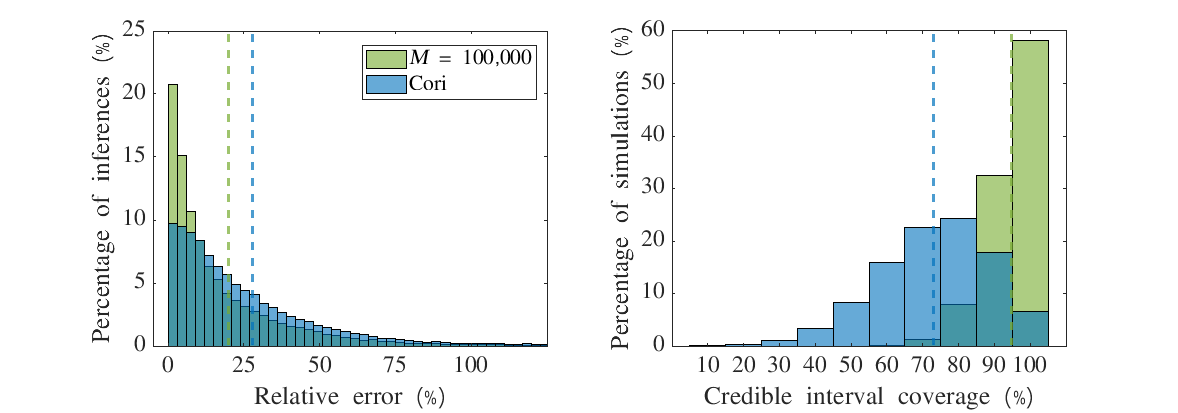
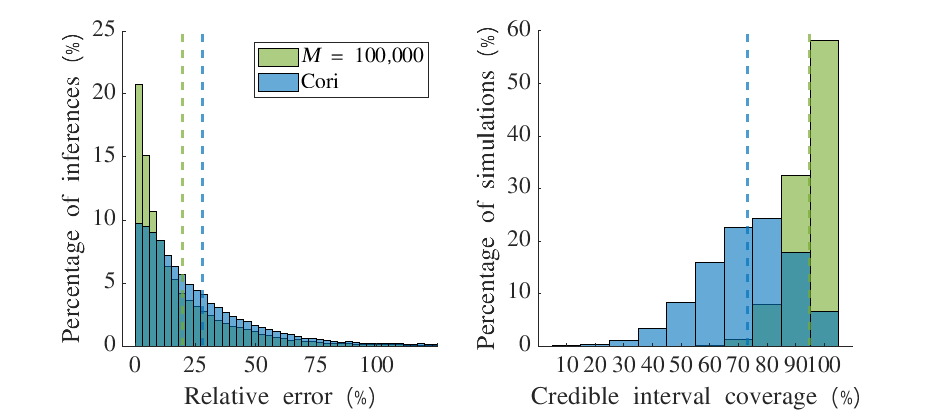
pre meeting

diff --git a/MATLAB/plotRWDEbola.m b/MATLAB/plotRWDEbola.m
@@ -20,7 +20,7 @@ set(groot, 'defaultLegendInterpreter','tex');
 set(0, 'DefaultTextInterpreter', 'tex')
 
 load('../MATs/realWorldInferenceEbolaAllRho.mat')
-
+load('../MATs/realWorldNovelInferenceEbolaSingleRho04.mat')
 
 meanAndCredibleAllRhoMatrix = zeros(max(realWorldInferenceEbolaRho1.week), 3, 9); % 3D matrix with 1st dim being time, 2nd dim being means, lower percentiles and upper percentiles, and 3rd dim being rho.
 
@@ -55,24 +55,53 @@ meanAndCredibleAllRhoMatrix(:, 3, 8) = realWorldInferenceEbolaRho8.upperRt;
 meanAndCredibleAllRhoMatrix(:, 3, 9) = realWorldInferenceEbolaRho9.upperRt;
 
 figure
-subplot(1, 2, 1)
+subplot(2, 2, 1)
 
-bar(realWorldInferenceEbolaRho1.trueWeeklyI)
+bh = bar(1:102, [realWorldNovelInferenceEbolaSingleRho04.reportedWeeklyI, realWorldInferenceEbolaRho1.trueWeeklyI - realWorldNovelInferenceEbolaSingleRho04.reportedWeeklyI], 'stacked');
 xlabel('Time (\itt \rmweeks)')
 ylabel('Assumed true incidence')
+set(bh, 'FaceColor', 'Flat')
+bh(2).CData = [0.5 0.5 0.5];
 
+legend('Actual reported incidence', 'Simulated hidden incidence')
+box off
+
+subplot(2, 2, 2)
+
+bh = bar(1:102, [realWorldInferenceEbolaRho1.reportedWeeklyI, realWorldInferenceEbolaRho1.trueWeeklyI - realWorldInferenceEbolaRho1.reportedWeeklyI], 'stacked');
+xlabel('Time (\itt \rmweeks)')
+ylabel('Assumed true incidence')
+set(bh, 'FaceColor', 'Flat')
+bh(1).CData = [0.9290 0.6940 0.1250];
+bh(2).CData = [0.5 0.5 0.5];
+
+legend('Simulated reported incidence (\rho = 0.1)', 'Simulated hidden incidence')
+box off
+
+subplot(2, 2, 3)
+
+
+bh = bar(1:102, [realWorldInferenceEbolaRho9.reportedWeeklyI, realWorldInferenceEbolaRho9.trueWeeklyI - realWorldInferenceEbolaRho9.reportedWeeklyI], 'stacked');
+xlabel('Time (\itt \rmweeks)')
+ylabel('Assumed true incidence')
+set(bh, 'FaceColor', 'Flat')
+bh(1).CData = [0.4940 0.1840 0.5560];
+bh(2).CData = [0.5 0.5 0.5];
+legend('Simulated reported incidence (\rho = 0.9)', 'Simulated hidden incidence')
+box off
 % figure
 % plotMeanAndCredible(realWorldInferenceEbola.meanRt, [realWorldInferenceEbola.lowerRt, realWorldInferenceEbola.upperRt])
 % xlabel('Time (days)')
 % ylabel('Rt')
-subplot(1, 2, 2)
+subplot(2, 2, 4)
 p(1) = plotMeanAndCredible(meanAndCredibleAllRhoMatrix(2:end, 1, 1), [meanAndCredibleAllRhoMatrix(2:end, 2, 1), meanAndCredibleAllRhoMatrix(2:end, 3, 1)], (2:102)', [0.9290 0.6940 0.1250], 'a', 'b');
 hold on
 p(3) = plotMeanAndCredible(meanAndCredibleAllRhoMatrix(2:end, 1, 9), [meanAndCredibleAllRhoMatrix(2:end, 2, 9), meanAndCredibleAllRhoMatrix(2:end, 3, 9)], (2:102)', [0.4940 0.1840 0.5560], 'a3', 'b3');
 xlabel('Time (\itt\rm weeks)')
 ylabel({'Time-dependent';'reproduction number (\itR\fontsize{14}t\fontsize{18}\rm)'})
 legend(p([1 3]), '\rho = 0.1', '\rho = 0.9')
-
+xlim([0 102.5])
+box off
 % figure
 % p(1) = plotMeanAndCredibleNoFill(meanAndCredibleAllRhoMatrix(2:end, 1, 1), [meanAndCredibleAllRhoMatrix(2:end, 2, 1), meanAndCredibleAllRhoMatrix(2:end, 3, 1)], (2:75)', 'red', 'a');
 % hold on

diff --git a/MATLAB/largeScaleAnalysis.m b/MATLAB/largeScaleAnalysis.m
@@ -186,6 +186,7 @@ plot(0.33:0.1:0.83, 100*coverageEEByRho, 'color', colourMat(1, :))
 xlabel('Reporting rate, \rho')
 ylabel('Coverage (%)')
 legend('\itM\rm = 100,000', 'Cori')
+box off
 
 figure
 
@@ -218,7 +219,7 @@ xlabel('Relative error (%)')
 ylabel('Percentage of inferences (%)')
 xline(mean(absoluteRelativeErrorNaiveEE)*100, '--', 'color', colourMat(1, :), 'LineWidth', 2)
 xline(mean(absoluteRelativeError)*100, '--', 'color', colourMat(3, :), 'LineWidth', 2)
-
+box off
 subplot(1, 2, 2)
 
 histogram(coverageBySim, 'Normalization', 'probability', 'FaceColor', colourMat(3, :))
@@ -235,6 +236,7 @@ ylabel('Percentage of simulations (%)')
 xlabel('Credible interval coverage (%)')
 
 legend('\itM\rm = 100,000', 'Cori')
+box off
 
 % Fig to show that coverage  does not change with rho
 

diff --git a/MATLAB/compareInferenceOldVsNew.m b/MATLAB/compareInferenceOldVsNew.m
@@ -39,6 +39,7 @@ subplot(1, 2, 1)
 bar(1:102, realWorldNovelInferenceEbolaSingleRho04.reportedWeeklyI)
 xlabel('Time (\itt\rm weeks)')
 ylabel('Reported Incidence')
+box off
 
 subplot(1, 2, 2)
 p1 = plotMeanAndCredible(realWorldNovelInferenceEbolaSingleNaiveRho04.meanRt(2:end), [realWorldNovelInferenceEbolaSingleNaiveRho04.lowerRt(2:end) realWorldNovelInferenceEbolaSingleNaiveRho04.upperRt(2:end)], (2:T)', colourMat(2, :), '', '');

diff --git a/MATLAB/compareInfrenceEpiEstimVsSimFromLargeScaleStudy.m b/MATLAB/compareInfrenceEpiEstimVsSimFromLargeScaleStudy.m
@@ -47,6 +47,7 @@ bar(largeScaleStudy.reportedWeeklyI(23:33))
 ylabel('Reported Incidence')
 xlabel('Time (\itt \rmweeks)')
 xlim([0.5 11.5])
+box off
 subplot(1,2,2)
 x = plotMeanAndCredible(robustnessCheckFromLargeScaleStudyM1e5.meanRt(4:11), ...
     [robustnessCheckFromLargeScaleStudyM1e5.lowerRt(4:11),...
